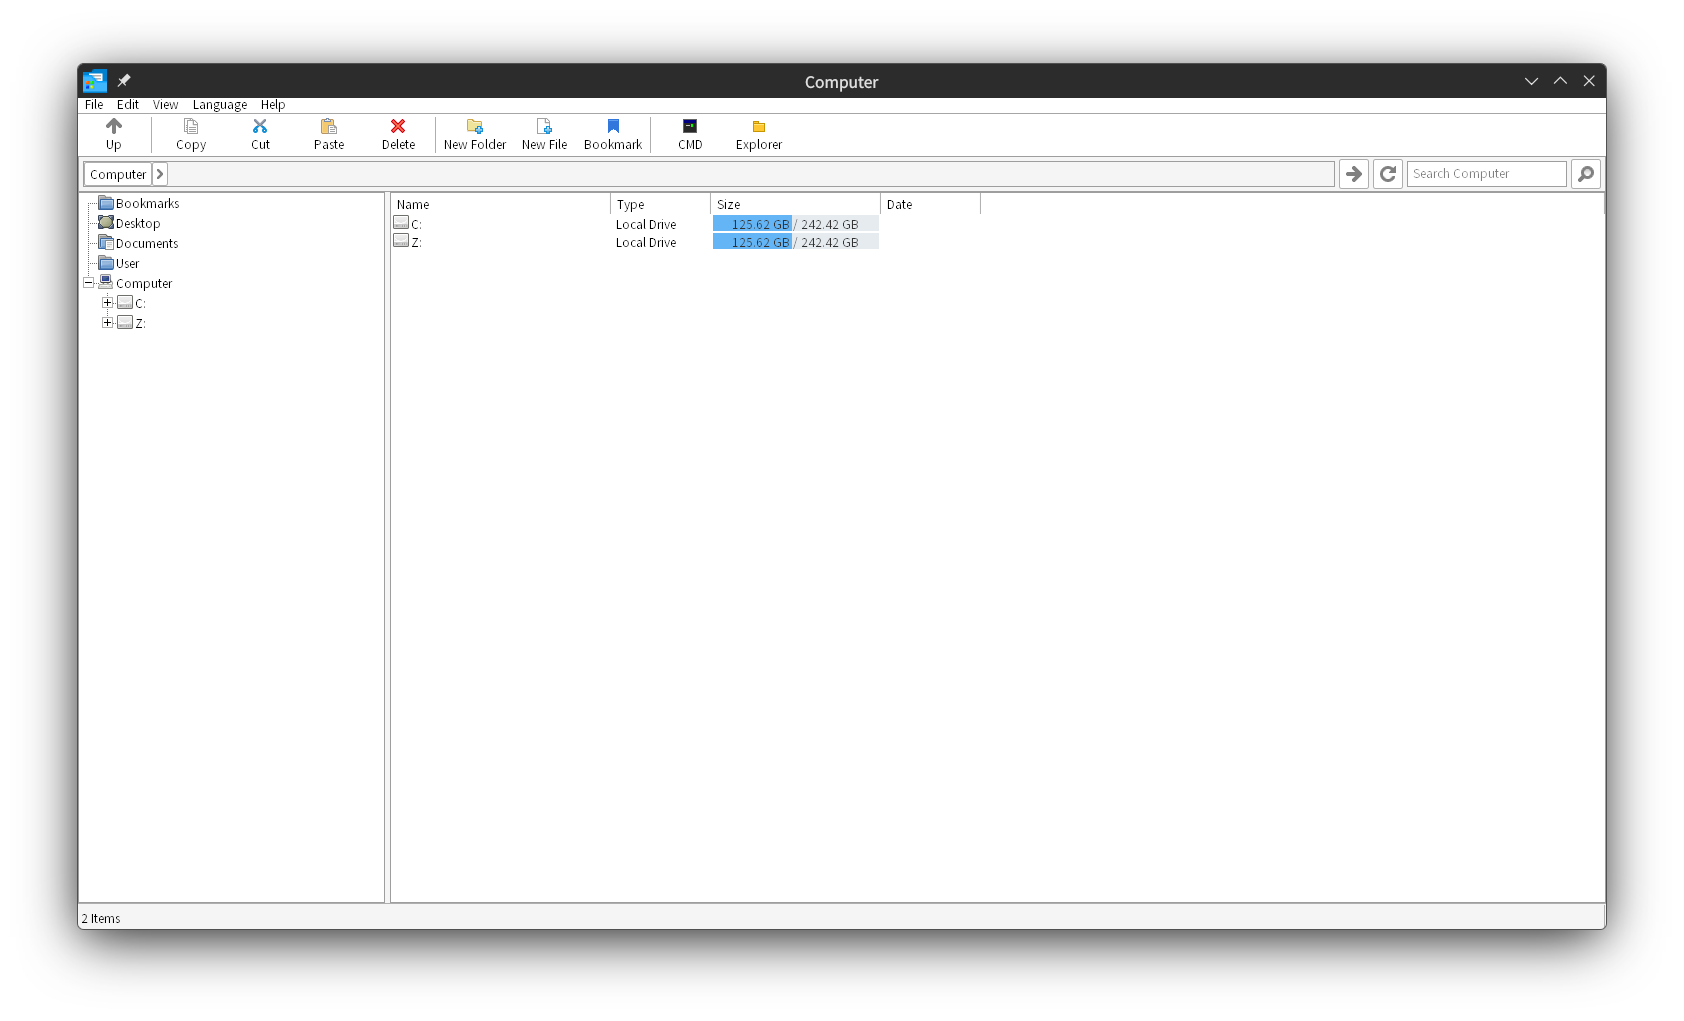
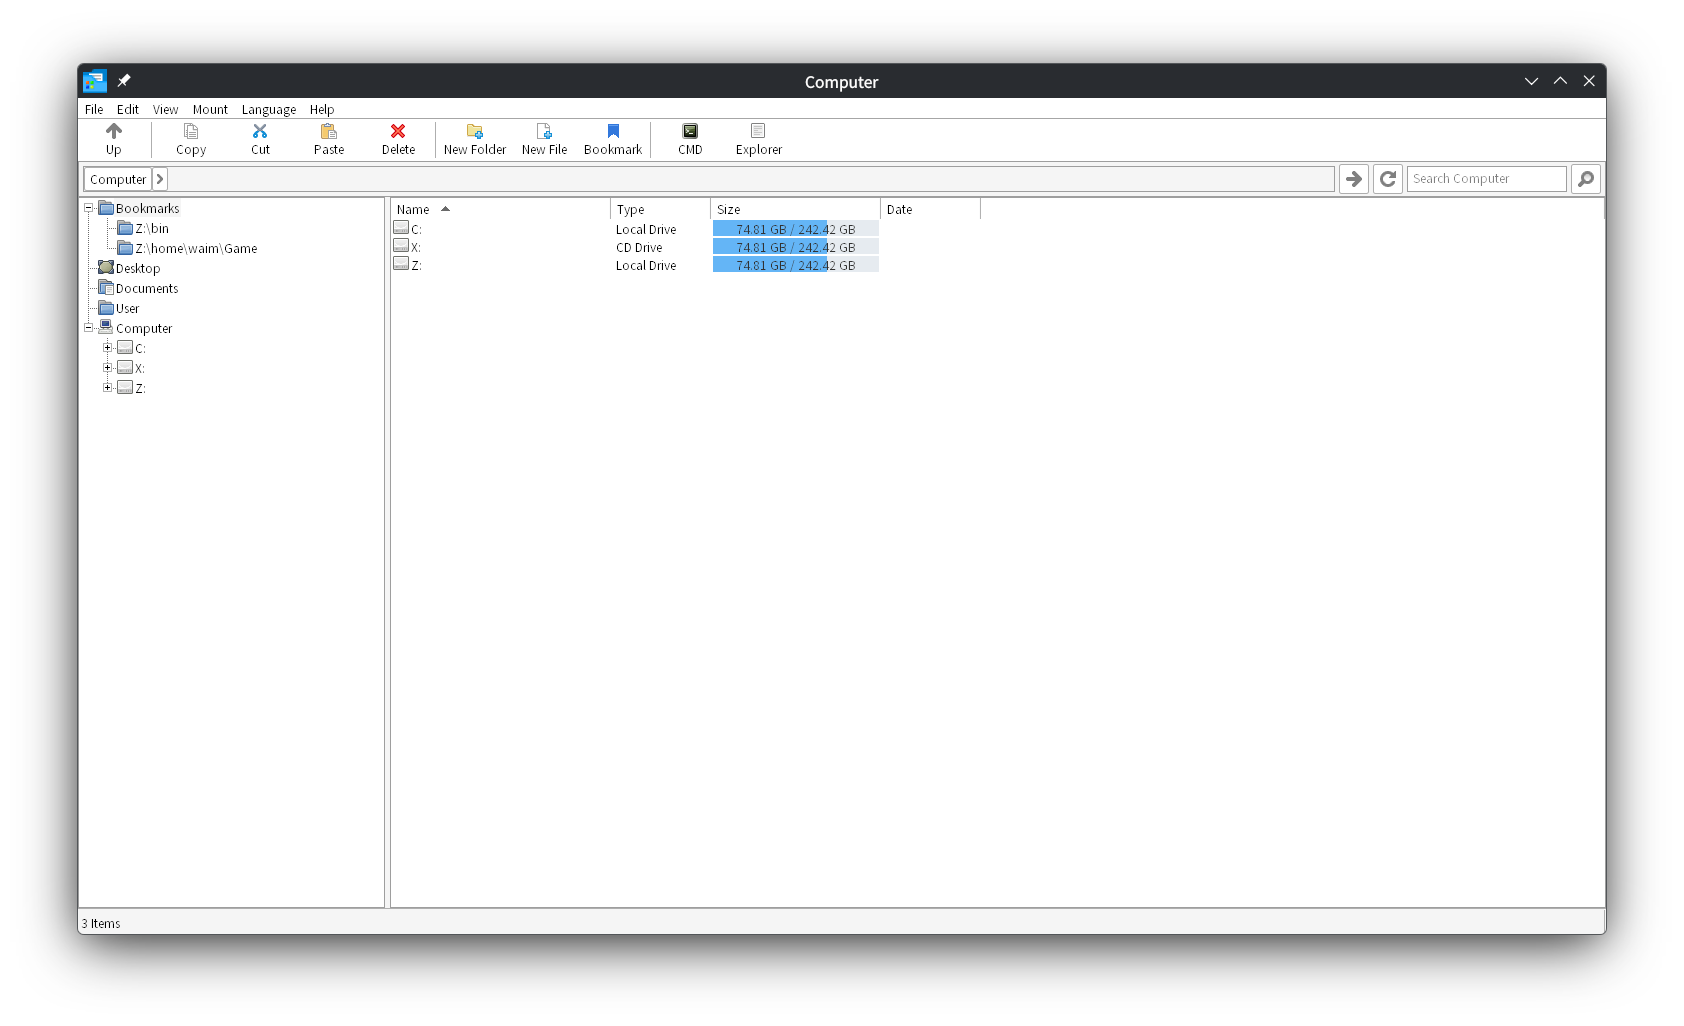
tag: update to 1.5-2.6

Changed region(s): [[0.0309, 0.0607, 0.9572, 0.3947], [0.0618, 0.8805, 0.0926, 0.9109]]

diff --git a/include/resource.h b/include/resource.h
@@ -100,7 +100,7 @@ void freeUIcons();
 #endif
 
 #define APP_NAME L"Winlator File Manager"
-#define APP_VERSION L"1.5-mod.2.5"
+#define APP_VERSION L"1.5-mod.2.6"
 #define APP_DEV_NAME L"BrunoSX"
 
 #ifndef RESOURCE_H

diff --git a/README.md b/README.md
@@ -52,6 +52,9 @@ Windows Registry Editor Version 5.00
 12. 搜索结果右键指定文件的菜单里可以直接定位到文件所在位置
 13. 加入了explorer启动，cmd启动的按钮（请务必在进入有效路径后，这两个按钮才会生效）
 14. 使用挂载功能不再需要*libcdio.dll*文件了-> by [nostalgia296](https://github.com/Waim908/wfm/pull/2)
+15. 可以查看隐藏文件了
+16. 可以设置或选择文件类型的打开程序（不干预系统全局文件类型设置）
+17. 文件排序可以在查看中切换为windows资源管理器的同款文件夹在上的排序，如果你习惯dolpin或者explorer的排序可以快速上手
 
 相较于原版wfm
 
@@ -66,7 +69,7 @@ Windows Registry Editor Version 5.00
 
 Q: 没有显示`.XXX`的Linux隐藏文件？
 
-A: ![Screenshot](winecfg2.png)
+A: ![Screenshot](showHideFile.png)
 
 Q: 文件图标出现了混淆？
 
